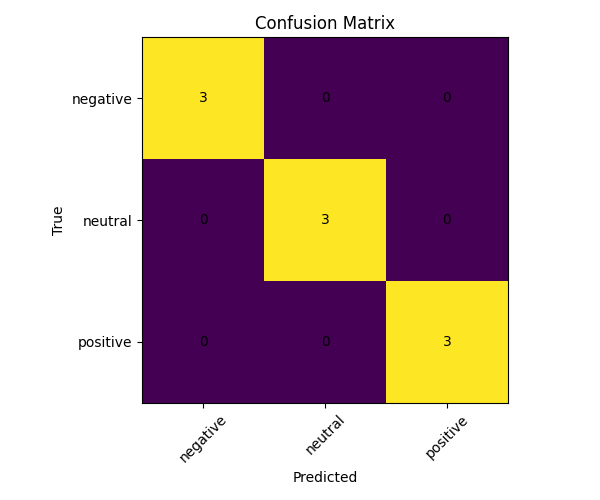
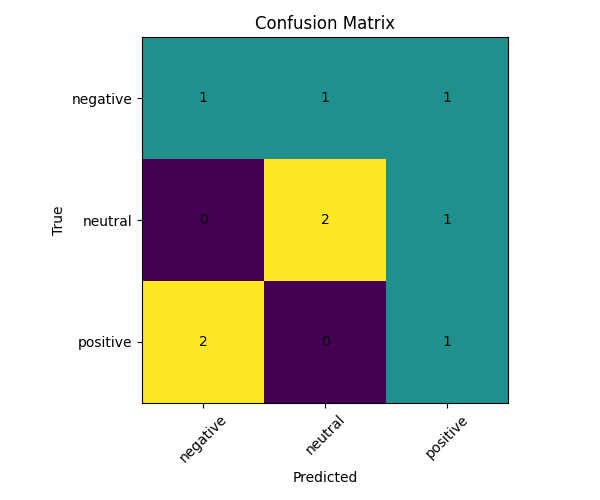
Auto-update model reports

Changed region(s): [[0.24, 0.06, 0.87, 0.81], [0.24, 0.54, 0.45, 0.81], [0.54, 0.42, 0.57, 0.45]]

diff --git a/README.md b/README.md
@@ -56,7 +56,7 @@ ml-text-classifier/
 <!-- METRICS_START -->
 ## Metrics
 
-- Accuracy: **1.0**
+- Accuracy: **0.4444**
 - Labels: **negative, neutral, positive**
 <!-- METRICS_END -->
 <!-- EXAMPLES_START -->
@@ -64,11 +64,11 @@ ml-text-classifier/
 
 | text                                        | true_label   | predicted_label   |
 |:--------------------------------------------|:-------------|:------------------|
-| Это был худший опыт за последнее время      | negative     | negative          |
+| Это был худший опыт за последнее время      | negative     | neutral           |
 | Очень приятный опыт, спасибо                | positive     | positive          |
-| Отличный сервис и быстрая доставка          | positive     | positive          |
-| Это сообщение носит информационный характер | neutral      | neutral           |
-| Я разочарован этой покупкой                 | negative     | negative          |
+| Отличный сервис и быстрая доставка          | positive     | negative          |
+| Это сообщение носит информационный характер | neutral      | positive          |
+| Я разочарован этой покупкой                 | negative     | positive          |
 <!-- EXAMPLES_END -->
 <!-- IMAGE_START -->
 ## Confusion Matrix
